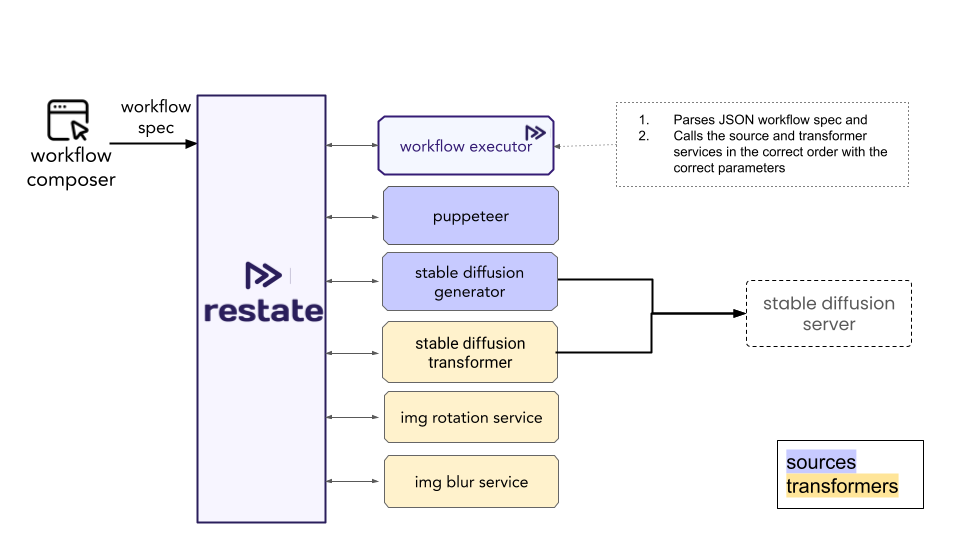
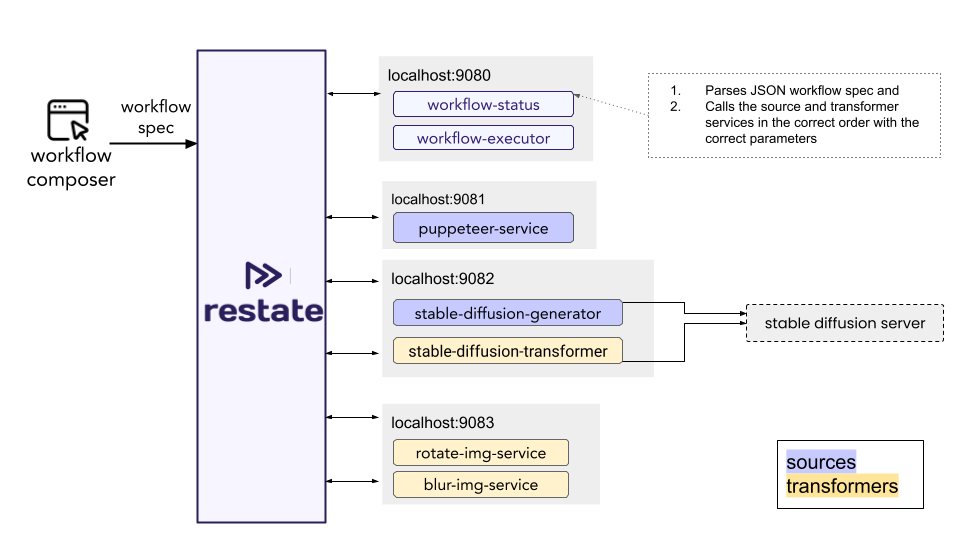
Implemented workflow status service

diff --git a/src/workflow/workflow_executor.ts b/src/workflow/workflow_executor.ts
@@ -1,5 +1,6 @@
-import {ProcessorType, WorkflowDefinition, WorkflowStep } from "../types/types";
+import {ProcessorType, WorfklowStatus, WorkflowDefinition, WorkflowStep} from "../types/types";
 import * as restate from "@restatedev/restate-sdk";
+import * as workflowStatus from "./workflow_status";
 import {TerminalError} from "@restatedev/restate-sdk";
 import {workflowStepRegistry} from "./workflow_step_registry";
 
@@ -11,17 +12,17 @@ export const router = restate.router({
         const imgName = ctx.rand.uuidv4();
         const wf = addImgPathToSteps(wfDefinition, imgName);
 
-        let processorMessages: string[] = [];
+        let status = {status: "Processing", imgName, output: []} as WorfklowStatus;
         for (const step of wf.steps) {
             const result = await executeWorkflowStep(ctx, step);
-            processorMessages.push(result.msg);
+            status.output.push(result.msg);
+
+            ctx.send(workflowStatus.service).update(wf.id, status);
         }
 
-        return {
-            status: "Image transformed!",
-            steps: processorMessages,
-            imgStoragePath: imgName
-        };
+        status.status = "Finished";
+        ctx.send(workflowStatus.service).update(wf.id, status);
+        return status;
     }
 })
 
@@ -84,4 +85,8 @@ function addImgPathToSteps(wfDefinition: WorkflowDefinition, imgName: string) {
 function executeWorkflowStep(ctx: restate.RpcContext, step: WorkflowStep) {
     const servicePath = workflowStepRegistry.get(step.service)!;
     return ctx.rpc(servicePath.api).run(step);
+}
+
+function updateWorkflowStatus() {
+
 }

diff --git a/src/workflow/workflow_status.ts b/src/workflow/workflow_status.ts
@@ -1,12 +1,15 @@
 import * as restate from "@restatedev/restate-sdk";
+import {WorfklowStatus} from "../types/types";
 
+export const router = restate.keyedRouter({
+    get: async (ctx: restate.RpcContext, id: string) => {
+        const status = await ctx.get<WorfklowStatus>("status") ?? "{}";
+        return status;
+    },
 
-export const router = restate.router({
-    get: async (ctx: restate.RpcContext, jsonWf: string) => {
-
+    update: async (ctx: restate.RpcContext, id: string, newStatus: WorfklowStatus) => {
+        ctx.set("status", newStatus);
     }
 })
 
-
-export type api = typeof router;
-export const service: restate.ServiceApi<api> = { path: "workflow-status"} // the name of the service that serves the handlers
+export const service: restate.ServiceApi<typeof router> = { path: "workflow-status"}

diff --git a/src/workflow/workflow.ts b/src/workflow/workflow.ts
@@ -5,5 +5,5 @@ import * as workflowStatus from "./workflow_status";
 restate
     .createServer()
     .bindRouter(workflowExecutor.service.path, workflowExecutor.router)
-    .bindRouter(workflowStatus.service.path, workflowStatus.router)
+    .bindKeyedRouter(workflowStatus.service.path, workflowStatus.router)
     .listen(9080);

diff --git a/src/types/types.ts b/src/types/types.ts
@@ -8,7 +8,14 @@ export type WorkflowStep = {
 }
 
 export type WorkflowDefinition = {
+    id: string;
     steps: Array<WorkflowStep>;
+}
+
+export type WorfklowStatus = {
+    status: string;
+    output: string[];
+    imgName: string;
 }
 
 export type router = { run: (wf: WorkflowStep) => Promise<ProcessorOutput>; }

diff --git a/README.md b/README.md
@@ -104,7 +104,12 @@ Here is  list of example workflow execution requests that you can send to the wo
 Puppeteer screenshot -> rotate -> blur:
 
 ```shell
-curl localhost:8080/workflow-executor/execute -H 'content-type: application/json' -d '{"request":"{\"steps\":[{\"service\":\"puppeteer-service\",\"parameters\":{\"url\":\"https://restate.dev\"}},{\"service\":\"rotate-img-service\",\"parameters\":{\"angle\":90}},{\"service\":\"blur-img-service\",\"parameters\":{\"blur\":5}}]}"}'
+curl localhost:8080/workflow-executor/execute -H 'idempotency-key: user123-wf7' -H 'content-type: application/json' -d '{"request":"{\"id\":\"user123-wf7\",\"steps\":[{\"service\":\"puppeteer-service\",\"parameters\":{\"url\":\"https://restate.dev\"}},{\"service\":\"rotate-img-service\",\"parameters\":{\"angle\":90}},{\"service\":\"blur-img-service\",\"parameters\":{\"blur\":5}}]}"}'
+```
+
+
+```shell
+curl localhost:8080/workflow-status/get -H 'content-type: application/json' -d '{"key":"user123-wf1"}'
 ```
 
 Puppeteer screenshot -> stable diffusion -> rotate -> blur:
